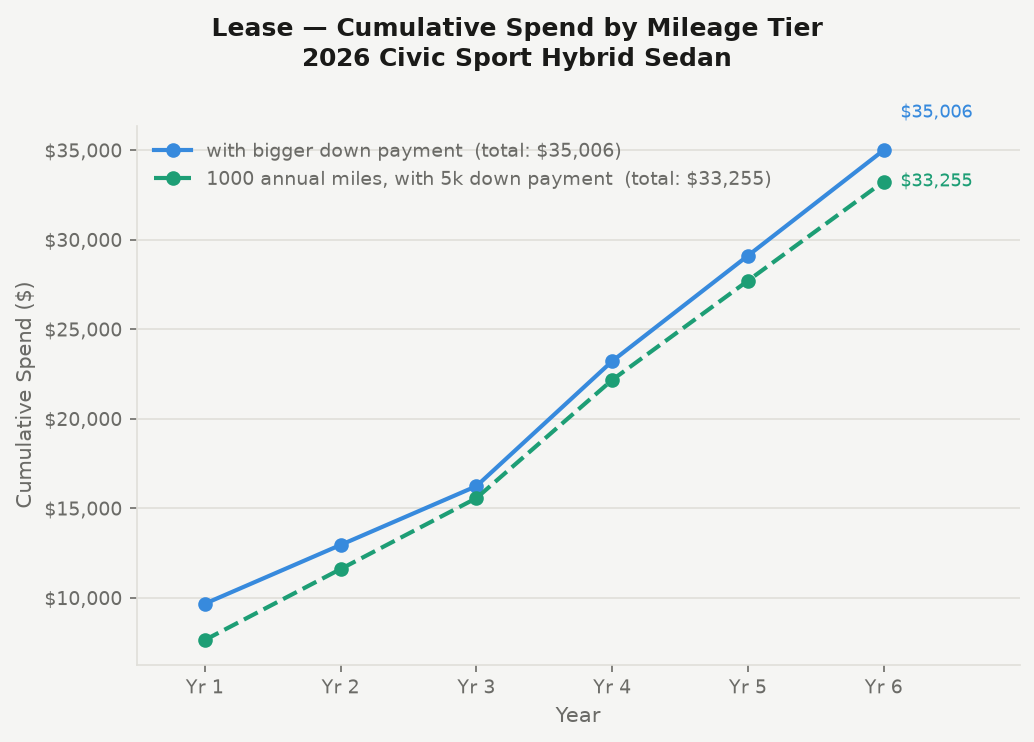
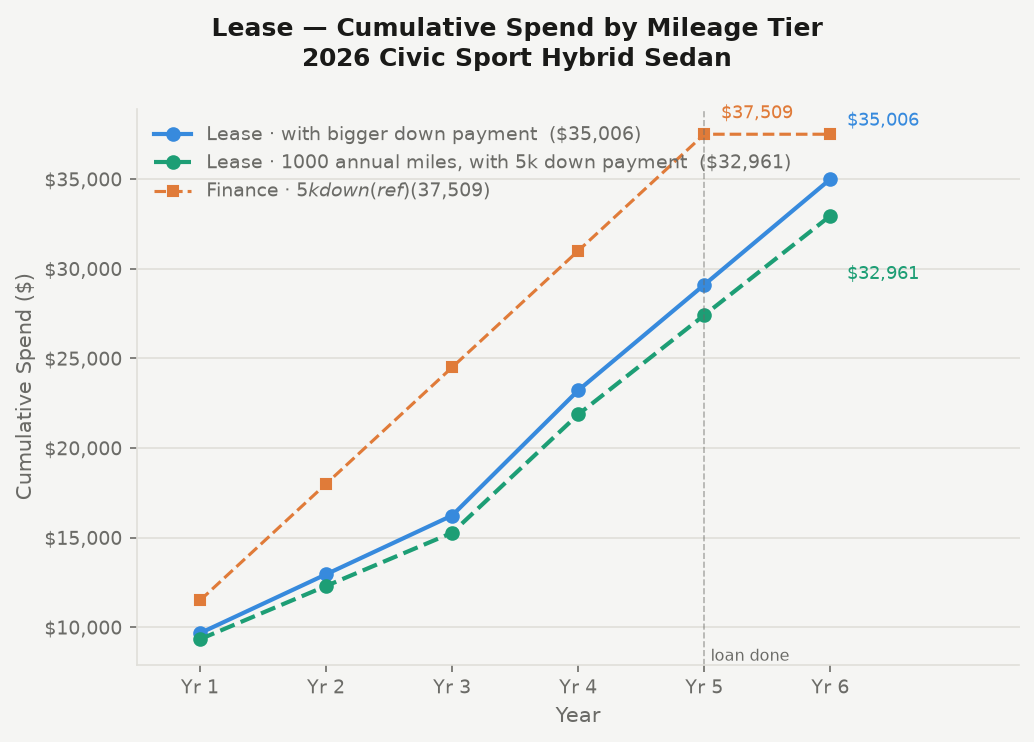
added finance data to also compre

diff --git a/plotFinances.py b/plotFinances.py
@@ -128,10 +128,57 @@ for model in models:
     )
 
     # Figure 2: Lease cumulative — last 2 scenarios (mileage comparison)
-    plot_figure(
-        model=model,
-        scenario_list=LEASE_SCENARIOS,
-        y_col="LeaseCumulative",
-        title_prefix="Lease — Cumulative Spend by Mileage Tier",
-        file_suffix="lease_mileage",
-    )
+    # Also plots finance cumulative from scenario 4 as a reference line
+    fig, ax = plt.subplots(figsize=(7, 5), facecolor=BG)
+    ax.set_facecolor(BG)
+    fig.suptitle(f"Lease — Cumulative Spend by Mileage Tier\n{model}", fontsize=12, fontweight="600", color=TEXT)
+
+    offsets = [28, -28]
+    for i, scenario in enumerate(LEASE_SCENARIOS):
+        rows = get_rows(model, scenario)
+        if not rows:
+            continue
+        years = [int(r["Year"]) for r in rows]
+        values = [r["LeaseCumulative"] for r in rows]
+        final = values[-1]
+        ax.plot(years, values, color=COLORS[i], linestyle=STYLES[i], linewidth=2,
+                marker="o", markersize=6, label=f"Lease · {scenario}  (${final:,.0f})")
+        ax.annotate(f"${final:,.0f}", xy=(years[-1], final),
+                    xytext=(8, offsets[i]), textcoords="offset points",
+                    fontsize=8.5, color=COLORS[i], va="center")
+
+    # Finance reference line — scenario 4 ($5k down, matches both mileage scenarios)
+    fin_ref_scenario = all_scenarios[-1]
+    fin_rows = get_rows(model, fin_ref_scenario)
+    if fin_rows:
+        fin_years = [int(r["Year"]) for r in fin_rows]
+        fin_values = [r["FinanceCumulative"] for r in fin_rows]
+        fin_final = fin_values[-1]
+        ax.plot(fin_years, fin_values, color=COLORS[2], linestyle="--", linewidth=1.5,
+                marker="s", markersize=5, label=f"Finance · $5k down (ref)  (${fin_final:,.0f})")
+        # Annotate at year 5 (when loan finishes) instead of year 6 to avoid overlap
+        ax.annotate(f"${fin_final:,.0f}", xy=(fin_years[-2], fin_values[-2]),
+                    xytext=(8, 10), textcoords="offset points",
+                    fontsize=8.5, color=COLORS[2], va="center")
+
+    ax.axvline(x=5, color=MUTED, linewidth=0.8, linestyle="--", alpha=0.5)
+    ax.text(5.05, ax.get_ylim()[0], "loan done", fontsize=7.5, color=MUTED, va="bottom")
+    ax.set_xlabel("Year", fontsize=10, color=MUTED)
+    ax.set_ylabel("Cumulative Spend ($)", fontsize=10, color=MUTED)
+    ax.set_xticks(range(1, 7))
+    ax.set_xticklabels([f"Yr {y}" for y in range(1, 7)])
+    ax.set_xlim(0.5, 7.5)
+    ax.tick_params(colors=MUTED, labelsize=9)
+    ax.yaxis.set_major_formatter(mticker.FuncFormatter(lambda v, _: f"${v:,.0f}"))
+    ax.grid(axis="y", color=GRID, linewidth=0.8)
+    ax.spines[["top", "right"]].set_visible(False)
+    ax.spines[["left", "bottom"]].set_color(GRID)
+    ax.legend(fontsize=9, framealpha=0, labelcolor=MUTED, loc="upper left")
+
+    safe_name = model.replace(" ", "_").replace("/", "_")
+    out_path = os.path.join(BASE, f"lease_mileage_{safe_name}.png")
+    plt.tight_layout()
+    plt.savefig(out_path, dpi=150, bbox_inches="tight", facecolor=BG)
+    print(f"Saved → {out_path}")
+    plt.show()
+    plt.close()